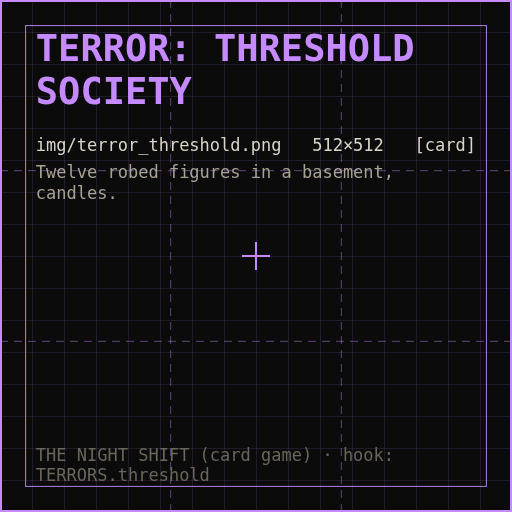
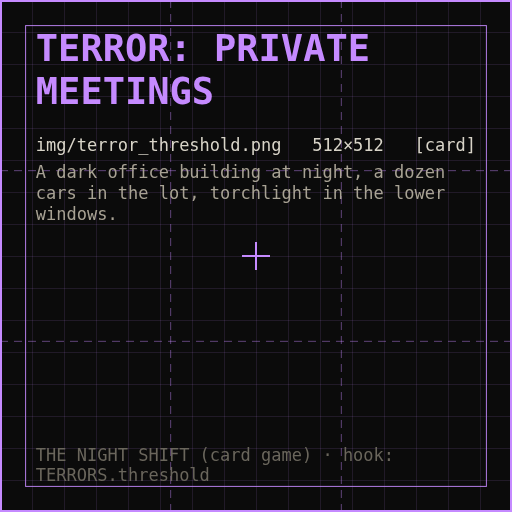
Night Shift claims: fixes from the adversarial review
- New run now also clears erased cards and Clarity (BLANK() lacked
  shred/clarity), keeping only the name and the 1962 records.
- Deck cap counts the permanent deck (deckList), not STATIC curses.
- "The line ... is yours now" only for the night's keeper (#0088), also
  when a bigger claim covers Earl's line.
- THE EAST WALL HP 34 -> 60: bot playtests showed it was accounted for
  in 3-4 turns, before Earl's line ran out or dawn could come.
- The 1962 seal's label is SEAL 4-7-62 (Harold's name is never on it).
- Accounted-for log never exceeds what was left; brief no longer says
  "Nothing yet" above the claims on record; Terrors "reach", not "hit".
- UX: drop highlight on filled slots, parcel tags and HP text stay on one
  line on phones, shorter LET IT KNOW text, no stray float text.
- Art outline for THE EAST WALL renamed terror_eastwall; docs updated.

Claude-Session: https://claude.ai/code/session_019WGVSRo4yQ6gbSyoXbQsEk

Changed region(s): [[0.0625, 0.3125, 0.875, 0.4375], [0.0625, 0.125, 0.4375, 0.2188], [0.4062, 0.0625, 0.8125, 0.125]]

diff --git a/js/dreamEngine.js b/js/dreamEngine.js
@@ -85,7 +85,7 @@ function deckList(){
 }
 const inst = id => ({ ...NS_CARDS[id], id, uid:'c' + (G.uid++) });
 function shuffle(a){ for(let i = a.length - 1; i > 0; i--){ const j = Math.floor(Math.random() * (i + 1)); [a[i], a[j]] = [a[j], a[i]]; } return a; }
-const owned = () => G.draw.length + G.hand.length + G.discard.length;
+const owned = () => deckList().length;          // the permanent deck: STATIC doesn't count, exhausted cards do
 
 function drawCards(n){
   for(let i = 0; i < n; i++){
@@ -137,13 +137,13 @@ function renderBrief(){
   const ew = save.bars.e || 0;
   if(ew >= 2) t.push(`East Wall ${ew}: every feed takes +${Math.floor(ew / 2)} more to account for, your Lucidity -${Math.floor(ew / 2)}.`);
   ['h','l','s','e'].forEach(k => { const b = Math.floor((save.bars[k] || 0) / 4);
-    if(b) t.push(`${BAR_NAMES[k]} ${save.bars[k]}: its Terrors hit +${b}.`); });
+    if(b) t.push(`${BAR_NAMES[k]} ${save.bars[k]}: its Terrors reach +${b}.`); });
   if(ew >= NS_CONFIG.wallPulseAt) t.push(`The wall pulses every ${NS_CONFIG.wallPulseEvery} turns. OBSERVER LOGGED.`);
   if(save.flags.tired) t.push(`You stayed up last night. ${NS_CONFIG.tiredFocus} Focus.`);
-  if(!t.length) t.push('Nothing yet. You have not dug deep enough to be noticed.');
   const rec = Math.min(RECORD_MAX, save.flags.recorded || 0);
   if(rec) t.push(`On record: every feed opens with a claim of ${rec} on each lane.`);
   if(SW.has('JOSEPH_NO1')) t.push('The 1962 seal holds CAM B.');
+  if(!t.length) t.push('Nothing yet. You have not dug deep enough to be noticed.');
   $('brief-threats').innerHTML = t.map(x => `<li>${esc(x)}</li>`).join('');
   setPhase('brief');
 }
@@ -210,12 +210,13 @@ function makeEnemy(id){
 
 function startFeed(node){
   G.lanes = Array.from({ length:LANES }, () => ({ enemy:null, ward:null }));
+  $('lane-ward-row').innerHTML = '';             // last feed's slots are hidden: no float text at 0,0
   const slots = laneSlots(node.enemies.length);
   node.enemies.forEach((id, i) => { if(NS_ENEMIES[id]) G.lanes[slots[i]].enemy = makeEnemy(id); });
   /* claims already standing when the feed opens (larger value wins, its label with it) */
   const rec = Math.min(RECORD_MAX, save.flags.recorded || 0);
   if(rec) for(let i = 0; i < LANES; i++) stake(i, rec);
-  if(SW.has('JOSEPH_NO1')) stake(1, 3, 'H.C. 1962');
+  if(SW.has('JOSEPH_NO1')) stake(1, 3, 'SEAL 4-7-62');
   if(node.claims) node.claims.forEach((n, i) => { if(n > 0) stake(i, n, node.keeper); });
   G.feedMaxHp = G.lanes.reduce((s, l) => s + (l.enemy ? l.enemy.maxHp : 0), 0) || 1;
   G.turn = 1;
@@ -413,7 +414,10 @@ function anchor(i, n){
   const lane = G.lanes[i];
   const prev = lane.ward || {};
   const w = { ...prev, value: Math.max(n, prev.value || 0) };   // paper on a claim keeps it a claim
-  if(n > (prev.value || 0)) delete w.by;                         // the larger value wins, with its label
+  if(n > (prev.value || 0) && w.by){                             // the larger value wins, with its label
+    if(G.node && w.by === G.node.keeper) log(`The line ${w.by} was holding is yours now.`, 'hot');
+    delete w.by;
+  }
   lane.ward = w;
   const s = document.querySelector(`.ward-slot[data-lane="${i}"]`);
   if(s) floatText(s, '+' + n, 'info');
@@ -553,12 +557,12 @@ function act(e, i, it){
     }
     if(wasClaim && absorbed > 0){
       G.stats.registered += absorbed;
-      log(`${e.name} meets the line. ${absorbed} accounted for.${dmg ? ` ${dmg} reaches you.` : ''}`, dmg ? 'hot' : 'good');
+      log(`${e.name} meets the line. ${Math.min(absorbed, e.hp)} accounted for.${dmg ? ` ${dmg} reaches you.` : ''}`, dmg ? 'hot' : 'good');
       hurt(i, absorbed);
     }else{
       log(`${e.name} reaches ${it.n}.${absorbed ? ` ${absorbed} held.` : ''}`, dmg ? 'hot' : '');
     }
-    if(by && !lane.ward) log(`The line ${by} was holding is yours now.`, 'hot');
+    if(by && by === G.node.keeper && !lane.ward) log(`The line ${by} was holding is yours now.`, 'hot');
   }else if(it.kind === 'guard'){
     if(G.lanes[i].ward && G.lanes[i].ward.claim){
       log(`${e.name}: the readings settle on your claim.`);

diff --git a/js/dreamData.js b/js/dreamData.js
@@ -112,7 +112,7 @@ const NS_CARDS = {
   spad:      { name:'SURVEY SPAD',  cost:0, effect:'claim',   value:3, target:'lane',  kind:'evidence', icon:'claim', file:'SPAD',
                desc:'Claim 3 on a lane.', flavor:"You check your compass against the survey spad. The needle won't settle." },
   seal_1962: { name:'BLOCK, NOT POWDER', cost:2, effect:'claim', value:10, target:'lane', kind:'evidence', icon:'claim', file:'SEALED 4-7-62', exhaust:true,
-               desc:'Claim 10 on a lane. Exhaust.', flavor:"You wall it up. Block, not powder. You don't shoot at it." },
+               desc:'Claim 10 on a lane. Exhaust.', flavor:'"You wall it up. Block, not powder. You don\'t shoot at it."' },
 
   /* rewards -- offered 3-at-random after each cleared feed */
   sec2_exe:  { name:'SEC2.EXE',     cost:0, effect:'draw',    value:2, target:'self',  kind:'reward', icon:'screen',
@@ -138,7 +138,7 @@ const NS_CARDS = {
   white_oak: { name:'WHITE OAK CORNER', cost:2, effect:'claim', value:8, target:'lane', kind:'reward', icon:'claim',
                desc:'Claim 8 on a lane.', flavor:'Beginning at a white oak marked with three hacks, corner of the 1887 Hargrove grant.' },
   let_it_know:{ name:'LET IT KNOW', cost:1, effect:'register', value:0, target:'enemy', kind:'reward', icon:'o',
-               desc:'Only on a claimed lane: that Terror skips its next action and loses its nearer bonus.', flavor:'Not magic. Just letting it know. The way you register that a door is closed.' },
+               desc:'On a claim: skips its next action, loses nearer.', flavor:'Not magic. Just letting it know. The way you register that a door is closed.' },
   redact:    { name:'[REDACTED]',   cost:1, effect:'expose',  value:6, target:'enemy', kind:'reward', icon:'beam',
                desc:'Expose a feed: +6 from every hit this turn.', flavor:'Credentials: extensive field experience.' }
 };
@@ -204,7 +204,7 @@ const NS_ENEMIES = {
   ricky:     { name:'UTILITIES CURRENT', hp:12, bar:'l', glyph:'◌',
                pattern:[['watch'],['whisper',1],['attack',4]],
                flavor:'1407 Cornett Branch Road. No death certificate filed.' },
-  eastwall:  { name:'THE EAST WALL', hp:34, bar:'e', glyph:'▣', boss:true,
+  eastwall:  { name:'THE EAST WALL', hp:60, bar:'e', glyph:'▣', boss:true,
                pattern:[['watch'],['attack',6],['extend',1],['whisper',2],['attack',8]],
                flavor:'Where the rock stops and something else begins.' }
 };

diff --git a/css/dream.css b/css/dream.css
@@ -281,7 +281,7 @@ body{
   font-family: var(--f-label); font-size:.72rem; color: rgba(227,162,74,.5); letter-spacing:.08em;
 }
 .ward-slot.claim, .ward-slot.claim.filled{ border-color:#b8642a; color:#e09a5a; background:rgba(184,100,42,.08); }   /* Harold's orange: a claim */
-.ward-slot.drop-hover{ border-color: var(--witchfire); color: var(--witchfire); background: rgba(168,255,206,.05); }
+.ward-slot.drop-hover, .ward-slot.filled.drop-hover, .ward-slot.claim.filled.drop-hover{ border-color: var(--witchfire); color: var(--witchfire); background: rgba(168,255,206,.05); }
 .ward-slot.filled{
   border-style: solid; border-color: var(--candle);
   background: rgba(227,162,74,.08); color: var(--candle);
@@ -585,7 +585,8 @@ body{
 
 .feed-tag{
   position:absolute; top:.35rem; left:.45rem; font-family:var(--f-mono); font-size:.6rem;
-  color:var(--crt); text-shadow:0 0 4px var(--crt); letter-spacing:.08em;
+  color:var(--crt); text-shadow:0 0 4px var(--crt); letter-spacing:.02em;
+  right:.45rem; white-space:nowrap; overflow:hidden; text-overflow:ellipsis;
 }
 .feed-tag::before{ content:'\25CF '; color:var(--wound-bright); animation:observer 1s steps(2) infinite; }
 .enemy-card{ overflow:visible; }
@@ -661,6 +662,7 @@ body.shake{ animation:enemy-hit .35s ease; }
   .depth::before{ display:none; }
   #log{ display:none; }
   .enemy-flavor{ display:none; }
+  .hp-text{ font-size:.58rem; white-space:nowrap; }
   .card .card-glyph{ margin-top:1rem; font-size:1.6rem; height:30px; }
   .card .card-flavor{ display:none; }
 }

diff --git a/js/artManifest.js b/js/artManifest.js
@@ -92,7 +92,7 @@ const ART_MANIFEST = [
     { file:'img/terror_cable.png', w:512, h:512, kind:'card', title:'TERROR: THE CABLE REEL', draw:'The reel, half in shadow.', status:'new', hook:'TERRORS.cable' },
     { file:'img/terror_witness.png', w:512, h:512, kind:'card', title:'TERROR: WITNESS.TXT', draw:'Green text on black.', status:'new', hook:'TERRORS.witness_t' },
     { file:'img/terror_threshold.png', w:512, h:512, kind:'card', title:'TERROR: PRIVATE MEETINGS', draw:'A dark office building at night, a dozen cars in the lot, torchlight in the lower windows.', status:'new', hook:'TERRORS.threshold' },
-    { file:'img/terror_earl.png', w:512, h:512, kind:'card', title:'TERROR: THE EAST WALL', draw:'Bare rock face at the bench, warm light with no source, nobody in frame.', status:'new', hook:'TERRORS.eastwall' }
+    { file:'img/terror_eastwall.png', w:512, h:512, kind:'card', title:'TERROR: THE EAST WALL', draw:'Bare rock face at the bench, warm light with no source, nobody in frame.', status:'new', hook:'TERRORS.eastwall' }
   ]},
   { day:'M', title:'1962 — JOSEPH No. 1 (the mine)', when:'04/06/62 – 04/07/62', page:'mine.html', slots:[
     { file:'img/mine_title.png', w:1344, h:768, kind:'still', title:'TITLE CARD: THE DRIFT MOUTH', draw:'Drift mouth in the hillside, timber set, belt coming out to a wooden tipple. Spring 1962.', status:'new', hook:'mine.html title card' },

diff --git a/tools/smoke_test.js b/tools/smoke_test.js
@@ -129,7 +129,7 @@ const adv = async p => { for(let i = 0; i < 2; i++){ await p.keyboard.press('Spa
     await p.goto(BASE + '/dream.html?night=1'); await p.waitForTimeout(800);
     await p.click('#brief-go'); await p.waitForTimeout(300);
     await p.click('.node.avail >> nth=0'); await p.waitForTimeout(500);
-    ok(await p.evaluate(() => { const w = G.lanes[1].ward; return !!w && w.claim && w.value >= 3 && w.by === 'H.C. 1962'; }), 'the 1962 seal holds CAM B');
+    ok(await p.evaluate(() => { const w = G.lanes[1].ward; return !!w && w.claim && w.value >= 3 && w.by === 'SEAL 4-7-62'; }), 'the 1962 seal holds CAM B');
     /* a claim accounts for what it holds */
     const reg = await p.evaluate(async () => {
       const i = G.lanes.findIndex(l => l.enemy && intentOf(l.enemy).kind === 'attack');

diff --git a/js/swState.js b/js/swState.js
@@ -39,6 +39,8 @@
     flags: {},            // custodian, tired, tl9, night_1 ...
     evidence: [],         // ids passed to SW.find()
     deck: [],             // Night Shift cards earned (card ids)
+    shred: [],            // Night Shift cards erased at a TAPE DECK
+    clarity: 0,           // Night Shift currency
     _pushed: {}           // last value we wrote to each legacy key
   });
 

diff --git a/DESIGN_NIGHTSHIFT.md b/DESIGN_NIGHTSHIFT.md
@@ -19,7 +19,7 @@ nights are a lane deckbuilder. Everything you `type`, `play` or `dial`
 during the day is logged by `SW.find()`. When you fall asleep, each
 logged file that maps to a card comes with you: BADGE.LOG becomes
 **DEAD BADGE**, TAPE_03 becomes **TAPE 03** (silences a Terror),
-the deed with your name on it becomes **THE DEED** (anchor every lane).
+the deed with your name on it becomes **THE DEED** (claim every lane).
 
 The same reading raises the threat bars (HARGROVE, LKCO, SYSTEM,
 EAST WALL). The bars feed the nightmare:
@@ -192,7 +192,7 @@ Other card changes:
 
 ### Terrors
 Rule: a Terror is something the entity does, a record, or a place. It is never a person from the lore, and never Earl's own equipment (Day 4: "Leave the system running").
-- **earl → eastwall, THE EAST WALL.** HP 34, boss styling, same pattern (aware, reaches 6, nearer +1, static 2, reaches 8). Flavor: "Where the rock stops and something else begins." (the bible's View One, Day 5).
+- **earl → eastwall, THE EAST WALL.** HP 60 (raised from 34 after bot playtests: at 34 it was accounted for before Earl's line ran out or dawn came), boss styling, same pattern (aware, reaches 6, nearer +1, static 2, reaches 8). Flavor: "Where the rock stops and something else begins." (the bible's View One, Day 5).
 - **threshold → PRIVATE MEETINGS** (id kept).
   - The pattern becomes guard 6, guard 6, **watch**. It never touches you, because their rituals did nothing. It soaks up your turns, and a claim in its lane cancels its guard ("the readings settle").
   - The flavor is Ruth Bingham's Day 3 quote, "A dozen cars some nights." plus the torchlight in the lower windows. Night 2 no longer gives away the Day 5-6 reveal.
@@ -205,7 +205,7 @@ Rule: a Terror is something the entity does, a record, or a place. It is never a
   - The wall's first reach (6) meets his line, and 6 is accounted for.
   - On its fifth action (8 + 1 nearer) the line runs out: 4 accounted for, 5 reaches you.
   - The log says **"The line #0088 was holding is yours now."**
-  - With a higher bar the timing is the same but more reaches you. After Day 5 the bar is 1 if you turned back and 10 if you didn't. At 10 the wall has HP 39 and +2 on every reach, and it pulses.
+  - With a higher bar the timing is the same but more reaches you. After Day 5 the bar is 1 if you turned back and 10 if you didn't. At 10 the wall has HP 65 and +2 on every reach, and it pulses.
 - **Earl is not fought.** He is not hit, beaten or saved. He holds the line until it passes to you. That plays out the bible's "The arrangement has technically lapsed... he is not the custodian in the functional sense" and Day 7's "The land needs a new custodian". It spoils nothing: Day 3 already shows Earl as STATUS: ACTIVE.
 - **Dawn.** The node also carries `dawn:8`. If you are still standing at the end of turn 8, it withdraws. That gives two ways through: account for it, or hold until dawn. This is the "you can't win, only choose how long to hold" idea already in this doc.
 - **Win text:** "Nothing was beaten. It came to a line it could read, and it withdrew its awareness to whatever it was attending to before it noticed you. / Cold air. January. The crack is gone. / The line held where someone had been standing."
@@ -213,7 +213,7 @@ Rule: a Terror is something the entity does, a record, or a place. It is never a
 ### How claims carry
 **Within a night.** Lanes reset every feed, as now. Two things open a feed with a claim already in place:
 1. **Lines on file** (`save.flags.recorded`, 0-3). Every feed opens with a claim of that size on every lane.
-2. **The 1962 seal.** If `SW.has('JOSEPH_NO1')`, CAM B opens every feed with a claim of 3 labelled `H.C. 1962`.
+2. **The 1962 seal.** If `SW.has('JOSEPH_NO1')`, CAM B opens every feed with a claim of 3 labelled `SEAL 4-7-62`.
 
 When more than one applies to a lane, the larger value wins and its label goes with it.
 
@@ -326,7 +326,7 @@ STEP 2: js/dreamEngine.js. Every function named here already exists unless it is
 - hurt() (line 379): `SIGNAL LOST` → `ACCOUNTED FOR. It withdraws.`
 - startFeed(node) (line 159), after the enemies are placed and before renderAll:
   1. `const rec = Math.min(3, save.flags.recorded || 0);` If rec > 0, call stake(i, rec) on every lane.
-  2. If SW.has('JOSEPH_NO1'), call stake(1, 3, 'H.C. 1962').
+  2. If SW.has('JOSEPH_NO1'), call stake(1, 3, 'SEAL 4-7-62').
   3. If node.claims, call stake(i, node.claims[i], node.keeper) for every value > 0.
 - nightWon() (line 584): `SW.flag('recorded', Math.min(3, (save.flags.recorded || 0) + 1));`
 - wake() loss branch (line 626): `SW.flag('recorded', 0);`. The retry path (end-retry → beginNight) does not touch it.
@@ -373,7 +373,7 @@ b) Mine carry-over:
    - Go to index.html. Evaluate SW.find('JOSEPH_NO1') and then SW.newRun().
    - ok SW.has('JOSEPH_NO1').
    - Go to dream.html?night=1, click #brief-go, then click the first '.node.avail'.
-   - ok G.lanes[1].ward.claim && G.lanes[1].ward.value >= 3 && G.lanes[1].ward.by === 'H.C. 1962'.
+   - ok G.lanes[1].ward.claim && G.lanes[1].ward.value >= 3 && G.lanes[1].ward.by === 'SEAL 4-7-62'.
 c) Registration:
    - Put a {value:6, claim:true} ward in the lane of an enemy whose intentOf() is 'attack'.
    - Record its hp, then await endTurn().

diff --git a/docs/HANDOFF.md b/docs/HANDOFF.md
@@ -50,7 +50,7 @@ Everything is static HTML/JS: no build step and no dependencies. It runs from an
 - **Art:** paint the sprite sheets (`art/mine/templates`), and the `missing` day images first. Those are broken today: `cam1_d2`, `cam6_d2`, `cam9_d2`, `hargrove_photograph`, `cam9_1983`, `cam9_earl_walking`, `camX.gif`, and the gif variants of some cams.
 - **Hook new art:** each `new` slot in `js/artManifest.js` names the page/engine where it would be shown (`hook`).
 - **Night Shift: claims.** A full proposal (cards, rules, Earl's night as a line that passes to you, how claims carry between nights, no guns) is at the end of `DESIGN_NIGHTSHIFT.md`. **Built** (2026-10): claim/register effects, land-record cards, Earl's line in Night 3, dawn, claims on record carried between nights, the 1962 seal in CAM B.
-- **Night Shift card for the mine:** add a card in `js/dreamData.js` unlocked by evidence `JOSEPH_NO1`. `SW.find` already records it.
+- **Night Shift cards for the mine:** done. `JOSEPH_NO1` unlocks BLOCK, NOT POWDER (and the seal claim in CAM B); E1M1's `HC_LINE` / `SURVEY_SPAD` unlock HAROLD'S PAINT and SURVEY SPAD.
 - **More mine levels:** E1M3 could be Harold's 1971 last walk, or Earl's 1982 strip cut opening the old drift from above. Use the editor.
 - **Day pages → dashboard:** day pages don't link back to `index.html`. A small "SECWATCH" corner link (like `mine.html` has) would help.
 
